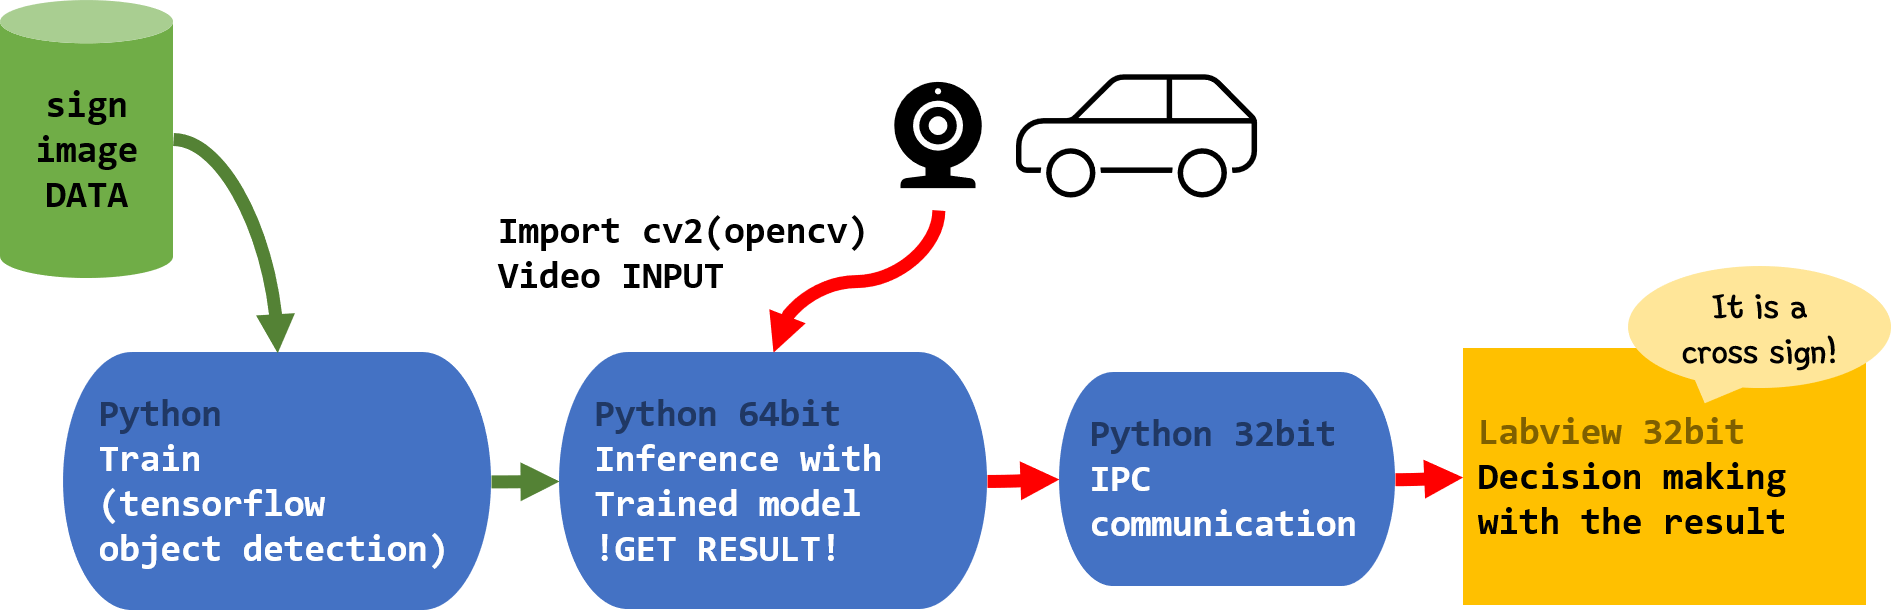
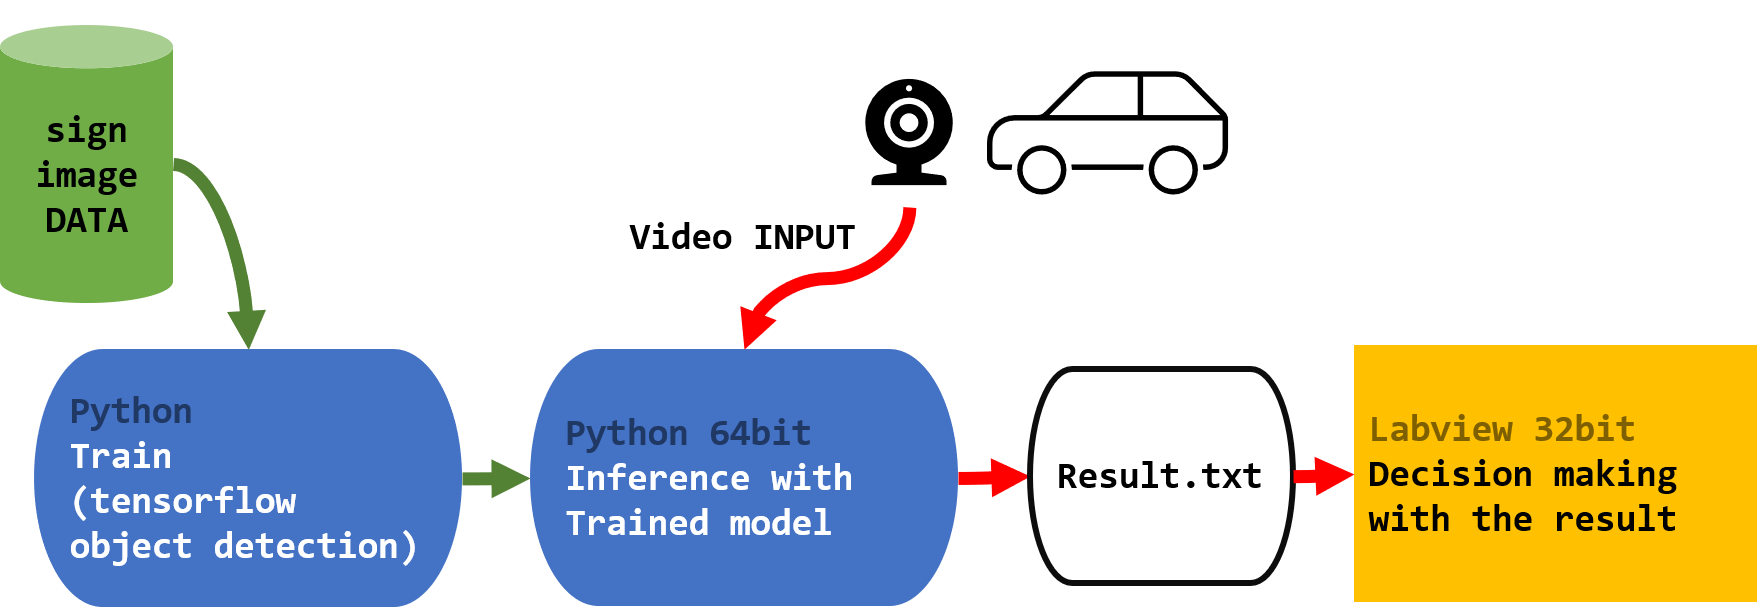
07.28

Changed region(s): [[0.0, 0.0, 0.9528, 1.0], [0.7684, 0.4152, 1.0, 1.0]]

diff --git a/detection_webcam.py b/detection_webcam.py
@@ -1,44 +1,21 @@
-# Import packages
 import os
 import cv2
 import numpy as np
 import tensorflow as tf
 import sys
 import time
-
-# This is needed since the notebook is stored in the object_detection folder.
-sys.path.append("..")
-
-# Import utilites
 from object_detection.utils import label_map_util
 from object_detection.utils import visualization_utils as vis_util
 
-# Name of the directory containing the object detection module we're using
-MODEL_NAME = 'inference_graph'
-
-# Grab path to current working directory
-CWD_PATH = os.getcwd()
-
-# Path to frozen detection graph .pb file, which contains the model that is used
-# for object detection.
 PATH_TO_CKPT = "D:/GitHub/traffic_sign_object_detection/fine_tuned_model/frozen_inference_graph.pb"
-
-# Path to label map file
 PATH_TO_LABELS = "D:/GitHub/traffic_sign_object_detection/data/annotations/label_map.pbtxt"
 
-# Number of classes the object detector can identify
 NUM_CLASSES = 5
 
-## Load the label map.
-# Label maps map indices to category names, so that when our convolution
-# network predicts `5`, we know that this corresponds to `king`.
-# Here we use internal utility functions, but anything that returns a
-# dictionary mapping integers to appropriate string labels would be fine
 label_map = label_map_util.load_labelmap(PATH_TO_LABELS)
 categories = label_map_util.convert_label_map_to_categories(label_map, max_num_classes=NUM_CLASSES, use_display_name=True)
 category_index = label_map_util.create_category_index(categories)
 
-# Load the Tensorflow model into memory.
 detection_graph = tf.Graph()
 with detection_graph.as_default():
     od_graph_def = tf.GraphDef()
@@ -49,47 +26,38 @@ with detection_graph.as_default():
 
     sess = tf.Session(graph=detection_graph)
 
-
-# Define input and output tensors (i.e. data) for the object detection classifier
-
-# Input tensor is the image
 image_tensor = detection_graph.get_tensor_by_name('image_tensor:0')
-
-# Output tensors are the detection boxes, scores, and classes
-# Each box represents a part of the image where a particular object was detected
 detection_boxes = detection_graph.get_tensor_by_name('detection_boxes:0')
 
-# Each score represents level of confidence for each of the objects.
-# The score is shown on the result image, together with the class label.
 detection_scores = detection_graph.get_tensor_by_name('detection_scores:0')
 detection_classes = detection_graph.get_tensor_by_name('detection_classes:0')
 
-# Number of objects detected
 num_detections = detection_graph.get_tensor_by_name('num_detections:0')
 
 # Initialize webcam feed
-video = cv2.VideoCapture(0)
+video = cv2.VideoCapture(0) # 0:web_cam 1:logitech
 ret = video.set(3,720)
 ret = video.set(4,720)
 
 a_dict = {"bicycle": 1, "child":2, "const":3, "bump":2, "cross":4}
+
 while(True):
     temp_list = []
     while len(temp_list) < 5:
-        # Acquire frame and expand frame dimensions to have shape: [1, None, None, 3]
-        # i.e. a single-column array, where each item in the column has the pixel RGB value
+        # start_1 = time.time() # 시작
         ret, frame = video.read()
-        print("-----------------")
+        print("------one-frame-------")
         frame_rgb = cv2.cvtColor(frame, cv2.COLOR_BGR2RGB)
         frame_expanded = np.expand_dims(frame_rgb, axis=0)
 
         # Perform the actual detection by running the model with the image as input
+        # start_2 = time.time()
         (boxes, scores, classes, num) = sess.run(
             [detection_boxes, detection_scores, detection_classes, num_detections],
             feed_dict={image_tensor: frame_expanded})
-
-        # Draw the results of the detection (aka 'visulaize the results')
-        print("-----------------")
+        # print("sess.run 시간: ", time.time()-start_2)
+        print("-------display-visulalization-start-----")
+        
         disp_name = vis_util.visualize_boxes_and_labels_on_image_array(
             frame,
             np.squeeze(boxes),
@@ -98,14 +66,16 @@ while(True):
             category_index,
             use_normalized_coordinates=True,
             line_thickness=8,
-            min_score_thresh=0.5
+            min_score_thresh=0.6
             )
-        print(disp_name) #debugging
+        # name:percentage
+        
         disp_name = disp_name.split(":")[0]
         print(disp_name)
+        # print("한 프레임 판단 시간: ", time.time()-start_1)
 
+        print("change string to number")
         num_result = 0
-
         if disp_name == "bicycle":
             num_result = a_dict["bicycle"]
         elif disp_name == "child":
@@ -116,19 +86,14 @@ while(True):
             num_result = a_dict["bump"]
         elif disp_name == "cross":
             num_result = a_dict["cross"]
-            
-            # print(temp_list)
         temp_list.append(num_result)
-
-    #----------------------------------------------------------
 
     print(temp_list)
     num_1 = temp_list.count(1)
     num_2 = temp_list.count(2)
     num_3 = temp_list.count(3)
     num_4 = temp_list.count(4)
-    num_5 = temp_list.count(5)
-
+    # num_5 = temp_list.count(5)
 
     result = 0
     if num_1 >= 3:
@@ -139,27 +104,20 @@ while(True):
         result = 3
     elif num_4 >= 3:
         result = 4
-    elif num_5 >= 3:
-        result = 5
     else:
         print("nothing! result will be 0")
 
-    with open("testtest2.txt", "w") as f:
+    with open("result.txt", "w") as f:
         f.write(str(result))
 
-    time.sleep(5)
-
-
+    # time.sleep(5)
 
     # All the results have been drawn on the frame, so it's time to display it.
-    cv2.imshow('Object detector', frame)
+    # cv2.imshow('Object detector', frame)
 
     # Press 'q' to quit
     if cv2.waitKey(1) == ord('q'):
         break
 
-# Clean up
 video.release()
 cv2.destroyAllWindows()
-
-
